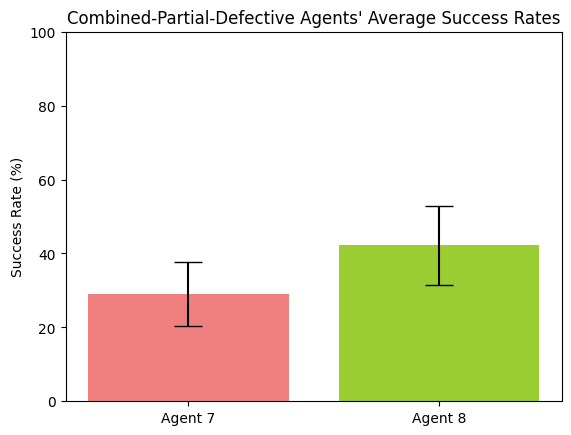
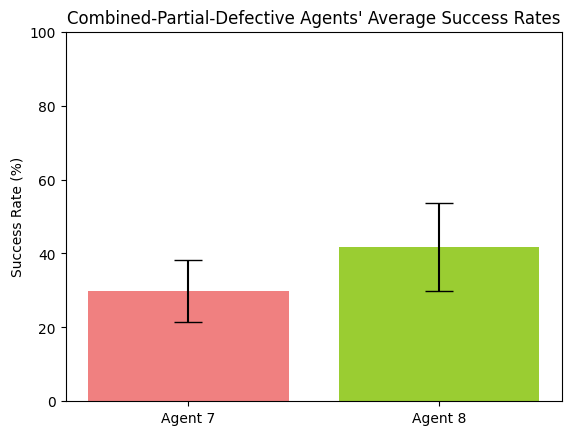
accounted for node being defective rather than prey/pred

diff --git a/game/agents/agent7c.py b/game/agents/agent7c.py
@@ -30,6 +30,10 @@ class Agent7C(Agent7B):
         P(n_surveyed) = 0.1 * P(prey at n_surveyed) / (0.1 * P(prey at n_surveyed) + 1 * P(prey not at n_surveyed))
         P(n_k) = 0 for the kth node containing the agent
         """
+        if self.maybe_noisy_survey == False:
+            super().prey_belief_update_1(graph, surveyed_node)
+            return 0
+
         surveyed_node_new_prey_belief = self.get_prey_noisy_survey_belief(
             surveyed_node)
 
@@ -51,6 +55,10 @@ class Agent7C(Agent7B):
         - Remove the number of ways to get to current agent location if exists in set or current surveyed node if it exists in set
         - Update beliefs based on the number of ways to get to each place in a particular state
         """
+        if self.maybe_noisy_survey == False:
+            super().prey_belief_update_3(graph, surveyed_node)
+            return 0
+
         counts = dict()
         for node in self.prey_frontier:
             counts[node] = counts.get(node, 0) + 1
@@ -91,6 +99,10 @@ class Agent7C(Agent7B):
                 ((0.1 * current_belief) + current_antibelief)
 
             return new_belief
+
+        if self.maybe_noisy_survey == False:
+            super().pred_belief_update_2(graph, surveyed_node)
+            return 0
 
         surveyed_node_new_pred_belief = get_pred_noisy_survey_belief()
 

diff --git a/game/agents/agent8c.py b/game/agents/agent8c.py
@@ -30,6 +30,10 @@ class Agent8C(Agent8B):
         P(n_surveyed) = 0.1 * P(prey at n_surveyed) / (0.1 * P(prey at n_surveyed) + 1 * P(prey not at n_surveyed))
         P(n_k) = 0 for the kth node containing the agent
         """
+        if self.maybe_noisy_survey == False:
+            super().prey_belief_update_1(graph, surveyed_node)
+            return 0
+
         surveyed_node_new_prey_belief = self.get_prey_noisy_survey_belief(
             surveyed_node)
 
@@ -51,6 +55,10 @@ class Agent8C(Agent8B):
         - Remove the number of ways to get to current agent location if exists in set or current surveyed node if it exists in set
         - Update beliefs based on the number of ways to get to each place in a particular state
         """
+        if self.maybe_noisy_survey == False:
+            super().prey_belief_update_3(graph, surveyed_node)
+            return 0
+
         counts = dict()
         for node in self.prey_frontier:
             counts[node] = counts.get(node, 0) + 1
@@ -91,6 +99,10 @@ class Agent8C(Agent8B):
                 ((0.1 * current_belief) + current_antibelief)
 
             return new_belief
+
+        if self.maybe_noisy_survey == False:
+            super().pred_belief_update_2(graph, surveyed_node)
+            return 0
 
         surveyed_node_new_pred_belief = get_pred_noisy_survey_belief()
 

diff --git a/game/agents/agent7b.py b/game/agents/agent7b.py
@@ -8,6 +8,9 @@ class Agent7B(Agent7):
         # initialize the location of the agent, graph, predator here
         super().__init__(location, graph, predator)
 
+        # initialize whether the surveying was potentially defective
+        self.maybe_noisy_survey = False
+
     def survey_node(self, graph, prey, predator):
         """
         RETURNS (PREY SIGNAL=T/F, PREDATOR SIGNAL=T/F, NODE_SURVEYED=n_i)
@@ -42,10 +45,14 @@ class Agent7B(Agent7):
                 self.prev_preys.append(node)
             if pred_signal:
                 self.prev_preds.append(node)
+
+            self.maybe_noisy_survey = False if (prey_signal or pred_signal) else True
             return prey_signal, pred_signal, node
         else:
             prey_signal = False
             pred_signal = False
+
+            self.maybe_noisy_survey = True
             return prey_signal, pred_signal, node
 
     def prey_belief_update_3(self, graph, surveyed_node):

diff --git a/game/agents/agent8b.py b/game/agents/agent8b.py
@@ -8,6 +8,9 @@ class Agent8B(Agent8):
         # initialize the location of the agent, graph, predator here
         super().__init__(location, graph, predator)
 
+        # initialize whether the surveying was potentially defective
+        self.maybe_noisy_survey = False
+
     def survey_node(self, graph, prey, predator):
         """
         RETURNS (PREY SIGNAL=T/F, PREDATOR SIGNAL=T/F, NODE_SURVEYED=n_i)
@@ -42,10 +45,14 @@ class Agent8B(Agent8):
                 self.prev_preys.append(node)
             if pred_signal:
                 self.prev_preds.append(node)
+
+            self.maybe_noisy_survey = False if (prey_signal or pred_signal) else True
             return prey_signal, pred_signal, node
         else:
             prey_signal = False
             pred_signal = False
+
+            self.maybe_noisy_survey = True
             return prey_signal, pred_signal, node
 
     def prey_belief_update_3(self, graph, surveyed_node):
